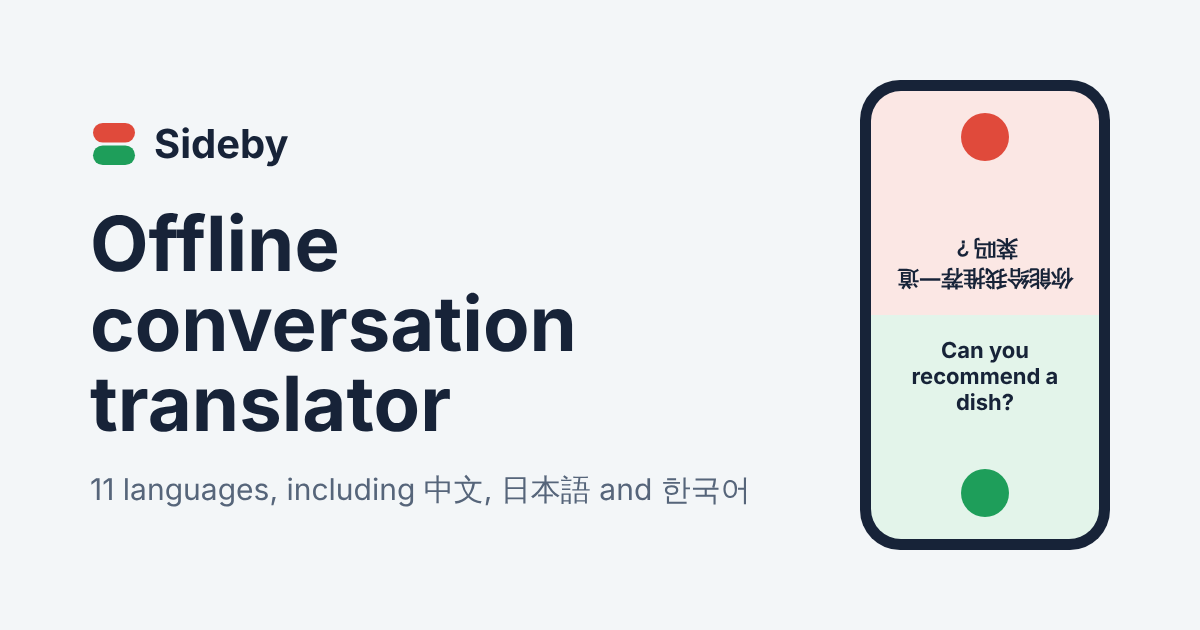
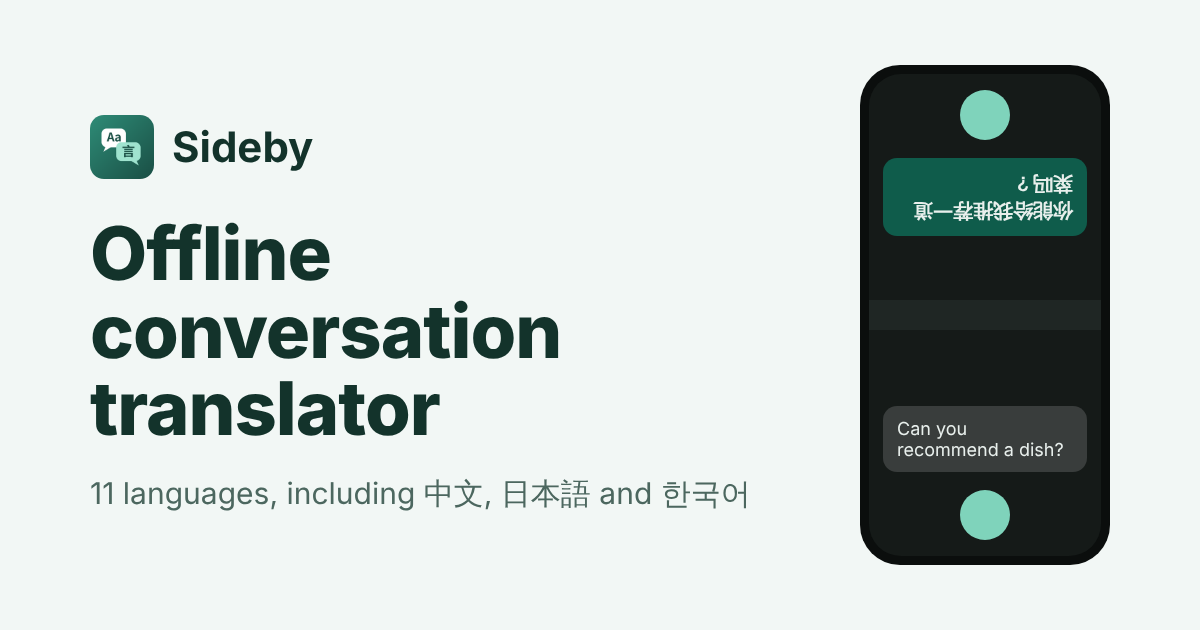
update 1

diff --git a/src/styles/global.css b/src/styles/global.css
@@ -1,30 +1,31 @@
 :root {
-  --paper: #f3f6f8;
+  --paper: #f2f7f5;
   --surface: #ffffff;
-  --ink: #172338;
-  --muted: #56657a;
-  --line: #d6dee6;
-  --mine: #1e9e5a;
-  --mine-soft: #e3f4ea;
-  --theirs: #e04a3b;
-  --theirs-soft: #fbe7e4;
-  --phone: #172338;
+  --ink: #13332b;
+  --muted: #4c675f;
+  --line: #d3e3dd;
+  --brand: #1f6f5c;
+  --brand-deep: #1b4e43;
+  --mint: #a0e3d0;
+  /* app UI colours, used by the phone mockup */
+  --app-bg: #151a18;
+  --app-bar: #1f2624;
+  --app-teal: #0f5c4b;
+  --app-grey: #393d3c;
+  --app-mint: #7fd3bb;
   --display: 'Bricolage Grotesque Variable', system-ui, -apple-system, 'Segoe UI', 'Hiragino Sans', 'PingFang SC', 'Noto Sans CJK SC', 'Malgun Gothic', sans-serif;
   --body: system-ui, -apple-system, 'Segoe UI', Roboto, 'Hiragino Sans', 'PingFang SC', 'Noto Sans CJK SC', 'Malgun Gothic', sans-serif;
   color-scheme: light dark;
 }
 @media (prefers-color-scheme: dark) {
   :root {
-    --paper: #0e1520;
-    --surface: #172131;
-    --ink: #e6edf5;
-    --muted: #9aa9bc;
-    --line: #2a3648;
-    --mine: #3cc27a;
-    --mine-soft: #15301f;
-    --theirs: #f0675a;
-    --theirs-soft: #3a1c1a;
-    --phone: #05090f;
+    --paper: #0f1715;
+    --surface: #17221f;
+    --ink: #e3f1ec;
+    --muted: #93afa6;
+    --line: #253631;
+    --brand: #7fd3bb;
+    --brand-deep: #17221f;
   }
 }
 
@@ -41,7 +42,7 @@ h1, h2, h3 { font-family: var(--display); margin: 0; line-height: 1.1; letter-sp
 :lang(zh-Hans) h2, :lang(ja) h2, :lang(ko) h2 { line-height: 1.3; letter-spacing: 0; }
 p { margin: 0; }
 a { color: inherit; }
-:focus-visible { outline: 3px solid var(--mine); outline-offset: 3px; border-radius: 4px; }
+:focus-visible { outline: 3px solid var(--brand); outline-offset: 3px; border-radius: 4px; }
 
 .wrap { width: 100%; max-width: 1080px; margin-inline: auto; padding-inline: 20px; }
 .skip { position: absolute; left: -999px; top: 8px; background: var(--surface); padding: 8px 12px; z-index: 10; }
@@ -49,6 +50,7 @@ a { color: inherit; }
 
 /* Header */
 .top { display: flex; align-items: center; justify-content: space-between; padding-block: 18px; }
+.brand img { border-radius: 8px; display: block; }
 .brand { display: inline-flex; gap: 10px; align-items: center; text-decoration: none; font: 700 1.3rem/1 var(--display); }
 .langs { position: relative; }
 .langs summary {
@@ -63,7 +65,7 @@ a { color: inherit; }
 }
 .langs a { display: block; padding: 8px 12px; border-radius: 8px; text-decoration: none; }
 .langs a:hover { background: var(--paper); }
-.langs a[aria-current] { font-weight: 600; color: var(--mine); }
+.langs a[aria-current] { font-weight: 600; color: var(--brand); }
 
 /* Hero */
 .hero { display: grid; gap: 40px; padding-block: 24px 72px; align-items: center; }
@@ -73,44 +75,48 @@ h1 { font-size: clamp(2.4rem, 6.2vw, 4.4rem); font-weight: 750; max-width: 14ch;
 .lede { margin-top: 22px; font-size: 1.2rem; color: var(--muted); max-width: 34em; }
 .cta {
   display: inline-flex; align-items: center; gap: 12px; margin-top: 30px;
-  background: var(--ink); color: var(--paper); text-decoration: none;
+  background: var(--brand-deep); color: #fff; text-decoration: none;
   padding: 16px 26px; border-radius: 14px; font: 600 1.05rem/1 var(--body);
 }
-.cta:hover { background: var(--mine); color: #fff; }
+.cta:hover { background: var(--brand); color: #fff; }
+@media (prefers-color-scheme: dark) { .cta { background: var(--app-mint); color: #10392f; } .cta:hover { background: var(--mint); color: #10392f; } }
 .note { margin-top: 12px; font-size: 0.95rem; color: var(--muted); }
 
-/* The phone: the one memorable thing on the page */
+/* The phone: Sideby's face-to-face screen, the one memorable thing on the page */
 .phone {
-  margin: 0 auto; width: min(320px, 72vw); aspect-ratio: 9 / 18.5;
-  background: var(--phone); border-radius: 44px; padding: 12px;
-  box-shadow: 0 30px 60px -20px rgb(23 35 56 / 0.45);
+  margin: 0 auto; width: min(310px, 72vw); aspect-ratio: 9 / 19;
+  background: #0b0e0d; border-radius: 44px; padding: 10px;
+  box-shadow: 0 30px 60px -22px rgb(19 51 43 / 0.5);
 }
-.screen { height: 100%; border-radius: 34px; overflow: hidden; display: grid; grid-template-rows: 1fr auto 1fr; background: var(--surface); }
-.half { display: flex; flex-direction: column; justify-content: flex-end; gap: 18px; align-items: center; padding: 26px 20px 22px; text-align: center; }
-.half.theirs { background: var(--theirs-soft); transform: rotate(180deg); }
-.half.mine { background: var(--mine-soft); }
-.said { flex: 1; display: grid; place-items: center; font: 600 1.35rem/1.3 var(--display); }
-.said:lang(zh-Hans), .said:lang(ja), .said:lang(ko) { font-family: var(--body); font-weight: 700; }
-.mic { width: 58px; height: 58px; border-radius: 50%; display: grid; place-items: center; }
-.mic::after {
-  content: ''; width: 16px; height: 24px; border-radius: 8px; background: #fff;
-  box-shadow: 0 7px 0 -4px transparent;
+.screen {
+  height: 100%; border-radius: 35px; overflow: hidden; background: var(--app-bg); color: #e8efec;
+  display: grid; grid-template-rows: 1fr auto 1fr;
 }
-.theirs .mic { background: var(--theirs); }
-.mine .mic { background: var(--mine); }
-.seam { height: 0; position: relative; display: flex; justify-content: center; }
+.half { display: flex; flex-direction: column; align-items: center; justify-content: flex-end; gap: 22px; padding: 18px 16px 22px; }
+.half.theirs { transform: rotate(180deg); }
+.bubble {
+  align-self: stretch; display: flex; align-items: center; gap: 10px;
+  padding: 14px 16px; border-radius: 16px; font: 600 1.15rem/1.35 var(--body);
+}
+.bubble.tr { background: var(--app-teal); }
+.bubble.said { background: var(--app-grey); font-weight: 500; font-size: 1.02rem; align-self: flex-end; max-width: 88%; }
+.spk { flex: none; opacity: 0.85; }
+.mic { width: 60px; height: 60px; border-radius: 50%; background: var(--app-mint); color: #10392f; display: grid; place-items: center; }
+.bar {
+  display: flex; align-items: center; justify-content: space-between; gap: 8px;
+  background: var(--app-bar); padding: 10px 14px; font-size: 0.78rem; font-weight: 600;
+}
+.pair { letter-spacing: 0.02em; color: #c9d6d1; }
 .plane {
-  position: absolute; top: 50%; transform: translateY(-50%);
-  display: inline-flex; gap: 6px; align-items: center; white-space: nowrap;
-  background: var(--surface); color: var(--muted); border: 1px solid var(--line);
-  border-radius: 999px; padding: 5px 12px; font-size: 0.8rem; font-weight: 600;
+  display: inline-flex; gap: 5px; align-items: center; white-space: nowrap;
+  background: #26403a; color: var(--app-mint); border-radius: 999px; padding: 4px 10px;
 }
 
 @media (prefers-reduced-motion: no-preference) {
-  .half.mine .said { animation: speak 0.6s ease-out 0.3s both; }
-  .half.theirs .said { animation: arrive 0.7s ease-out 1.2s both; }
-  @keyframes speak { from { opacity: 0; clip-path: inset(0 100% 0 0); } to { opacity: 1; clip-path: inset(0 0 0 0); } }
-  @keyframes arrive { from { opacity: 0; } to { opacity: 1; } }
+  .half.mine .bubble { animation: speak 0.5s ease-out 0.3s both; }
+  .half.theirs .bubble { animation: arrive 0.6s ease-out 1.1s both; }
+  @keyframes speak { from { opacity: 0; transform: translateY(8px); } to { opacity: 1; transform: none; } }
+  @keyframes arrive { from { opacity: 0; transform: scale(0.96); } to { opacity: 1; transform: none; } }
 }
 
 /* Section headings */
@@ -124,7 +130,7 @@ section h2 { font-size: clamp(1.8rem, 3.6vw, 2.6rem); font-weight: 700; }
 .steps li::before {
   content: counter(step); grid-row: span 2; width: 44px; height: 44px; border-radius: 50%;
   display: grid; place-items: center; font: 700 1.15rem/1 var(--display);
-  border: 2px solid var(--ink);
+  border: 2px solid var(--brand); color: var(--brand);
 }
 .steps h3 { font-size: 1.2rem; align-self: center; }
 .steps p { color: var(--muted); margin-top: 4px; }
@@ -136,19 +142,19 @@ section h2 { font-size: clamp(1.8rem, 3.6vw, 2.6rem); font-weight: 700; }
 .features p { margin-top: 6px; color: var(--muted); max-width: 40em; }
 .tag {
   font: 600 0.75rem/1 var(--body); padding: 4px 8px; border-radius: 6px;
-  background: var(--ink); color: var(--paper);
+  background: var(--brand-deep); color: #fff;
 }
 
 /* Languages: a full-bleed band */
-.languages { background: var(--ink); color: var(--paper); padding-block: 64px; }
+.languages { background: linear-gradient(135deg, #2b8673, #1b4e43); color: #fff; padding-block: 64px; }
 .languages .sub { margin-top: 12px; opacity: 0.8; max-width: 38em; }
 .languages ul { list-style: none; padding: 0; margin: 0; display: flex; flex-wrap: wrap; }
 .asian { gap: 8px 28px; margin-top: 32px !important; }
-.asian li { font: 700 clamp(2.4rem, 7vw, 4.2rem)/1.1 var(--body); }
+.asian li { color: var(--mint); font: 700 clamp(2.4rem, 7vw, 4.2rem)/1.1 var(--body); }
 .european { gap: 6px 22px; margin-top: 18px !important; }
 .european li { font: 600 clamp(1.25rem, 2.6vw, 1.7rem)/1.3 var(--display); opacity: 0.85; }
 .languages .small { margin-top: 28px; color: inherit; opacity: 0.7; }
-@media (prefers-color-scheme: dark) { .languages { background: var(--surface); color: var(--ink); } }
+
 
 /* Pricing */
 .plans { display: grid; gap: 16px; margin-top: 32px; }
@@ -157,7 +163,7 @@ section h2 { font-size: clamp(1.8rem, 3.6vw, 2.6rem); font-weight: 700; }
 .plan h3 { font-size: 1.3rem; }
 .plan.trial { background: transparent; border-style: dashed; }
 .plan.trial p { margin-top: 10px; color: var(--muted); }
-.plan.pro { border: 2px solid var(--ink); }
+.plan.pro { border: 2px solid var(--brand); }
 .amount { margin-top: 14px; color: var(--muted); }
 .amount strong { font: 700 2rem/1 var(--display); color: var(--ink); margin-right: 4px; }
 .alt { margin-top: 6px; color: var(--muted); font-size: 0.95rem; }
@@ -165,7 +171,7 @@ section h2 { font-size: clamp(1.8rem, 3.6vw, 2.6rem); font-weight: 700; }
 .plan li { padding-left: 24px; position: relative; margin-top: 8px; }
 .plan li::before {
   content: ''; position: absolute; left: 2px; top: 0.55em; width: 10px; height: 6px;
-  border-left: 2px solid var(--mine); border-bottom: 2px solid var(--mine); transform: rotate(-45deg);
+  border-left: 2px solid var(--brand); border-bottom: 2px solid var(--brand); transform: rotate(-45deg);
 }
 .small { font-size: 0.92rem; color: var(--muted); margin-top: 18px; }
 
